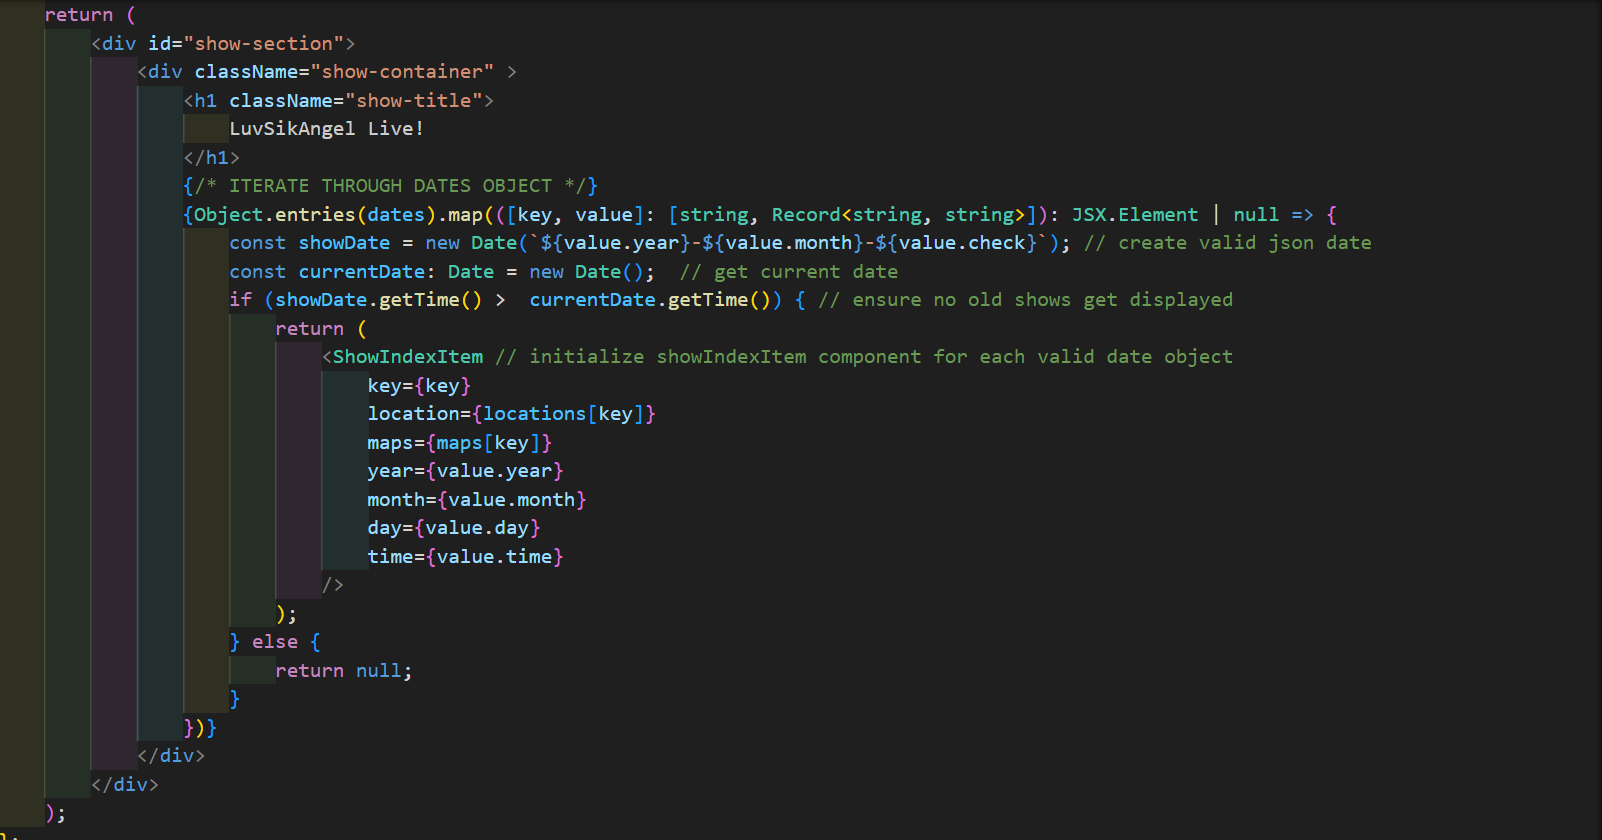
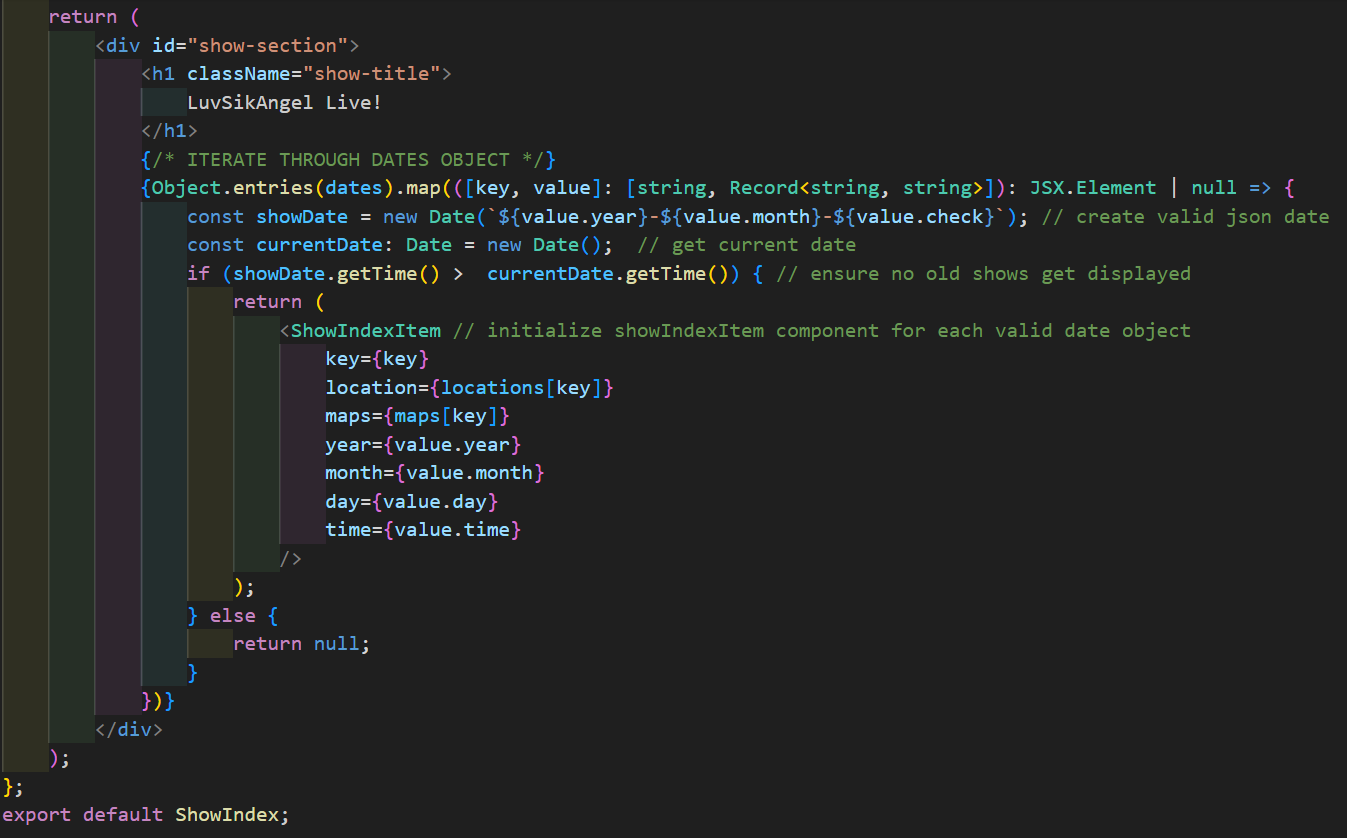
updated readme

diff --git a/src/Components/Shows/ShowIndex/ShowIndex.tsx b/src/Components/Shows/ShowIndex/ShowIndex.tsx
@@ -83,7 +83,7 @@ function ShowIndex(): JSX.Element {
         }
     };
     return (
-        <div className="show-container" id="show-section">
+        <div id="show-section">
             <h1 className="show-title">
                 LuvSikAngel Live!
             </h1>                

diff --git a/src/Components/Shows/ShowIndex/ShowIndex.css b/src/Components/Shows/ShowIndex/ShowIndex.css
@@ -1,7 +1,5 @@
 #show-section {
     padding-top: 70px;
-}
-.show-container{
     padding: 30px;
     display: flex;
     flex-direction: column;

diff --git a/README.md b/README.md
@@ -26,15 +26,24 @@
 #
 
 # Upcoming Shows: Seamlessly Managed with React and TypeScript
-<p style="font-size: 20px; text-align: center;">
+<p style="font-size: 18px; text-align: center;">
    The ShowIndex component serves as the central hub for displaying upcoming shows in a React application. Leveraging TypeScript, it meticulously iterates through a dynamic list of show dates, ensuring type safety and robustness in code. Through this iteration process, it dynamically renders instances of the ShowIndexItem component, which handles the presentation of individual show details. This seamless collaboration between ShowIndex and ShowIndexItem components not only promotes code reusability and adherence to the DRY principle but also facilitates a clear and maintainable codebase. By employing TypeScript interfaces, the ShowIndexItem component enforces strict prop types, guaranteeing consistency and reliability in data handling. Together, these components form a cohesive and efficient solution for managing and displaying show information in a React application, exemplifying the power of React and TypeScript synergy in frontend development.<br/>
+<p/>
+
+## Code Snippet From ShowIndex
+<p>
     <img align="center" src="./ReadMePics/ShowIndex.png"/>
+<p/>
+
+#
+## Code Snippet From ShowIndexItem
+<p>
     <img align="center" src="./ReadMePics/ShowIndexItem.png"/>
 <p/>
 
-
+#
 ## Mobile or Desktop Compatability!
-<p align="center">
+<p style="font-size: 18px; text-align: center;">
     Thanks to its mobile-friendly styling and carefully adjusted layout, our application ensures an intuitive user experience and easy digestion of information, regardless of the device being used for scrolling.
     <img align="center" src="./ReadMePics/Desktop.png"/>
 <p/>
